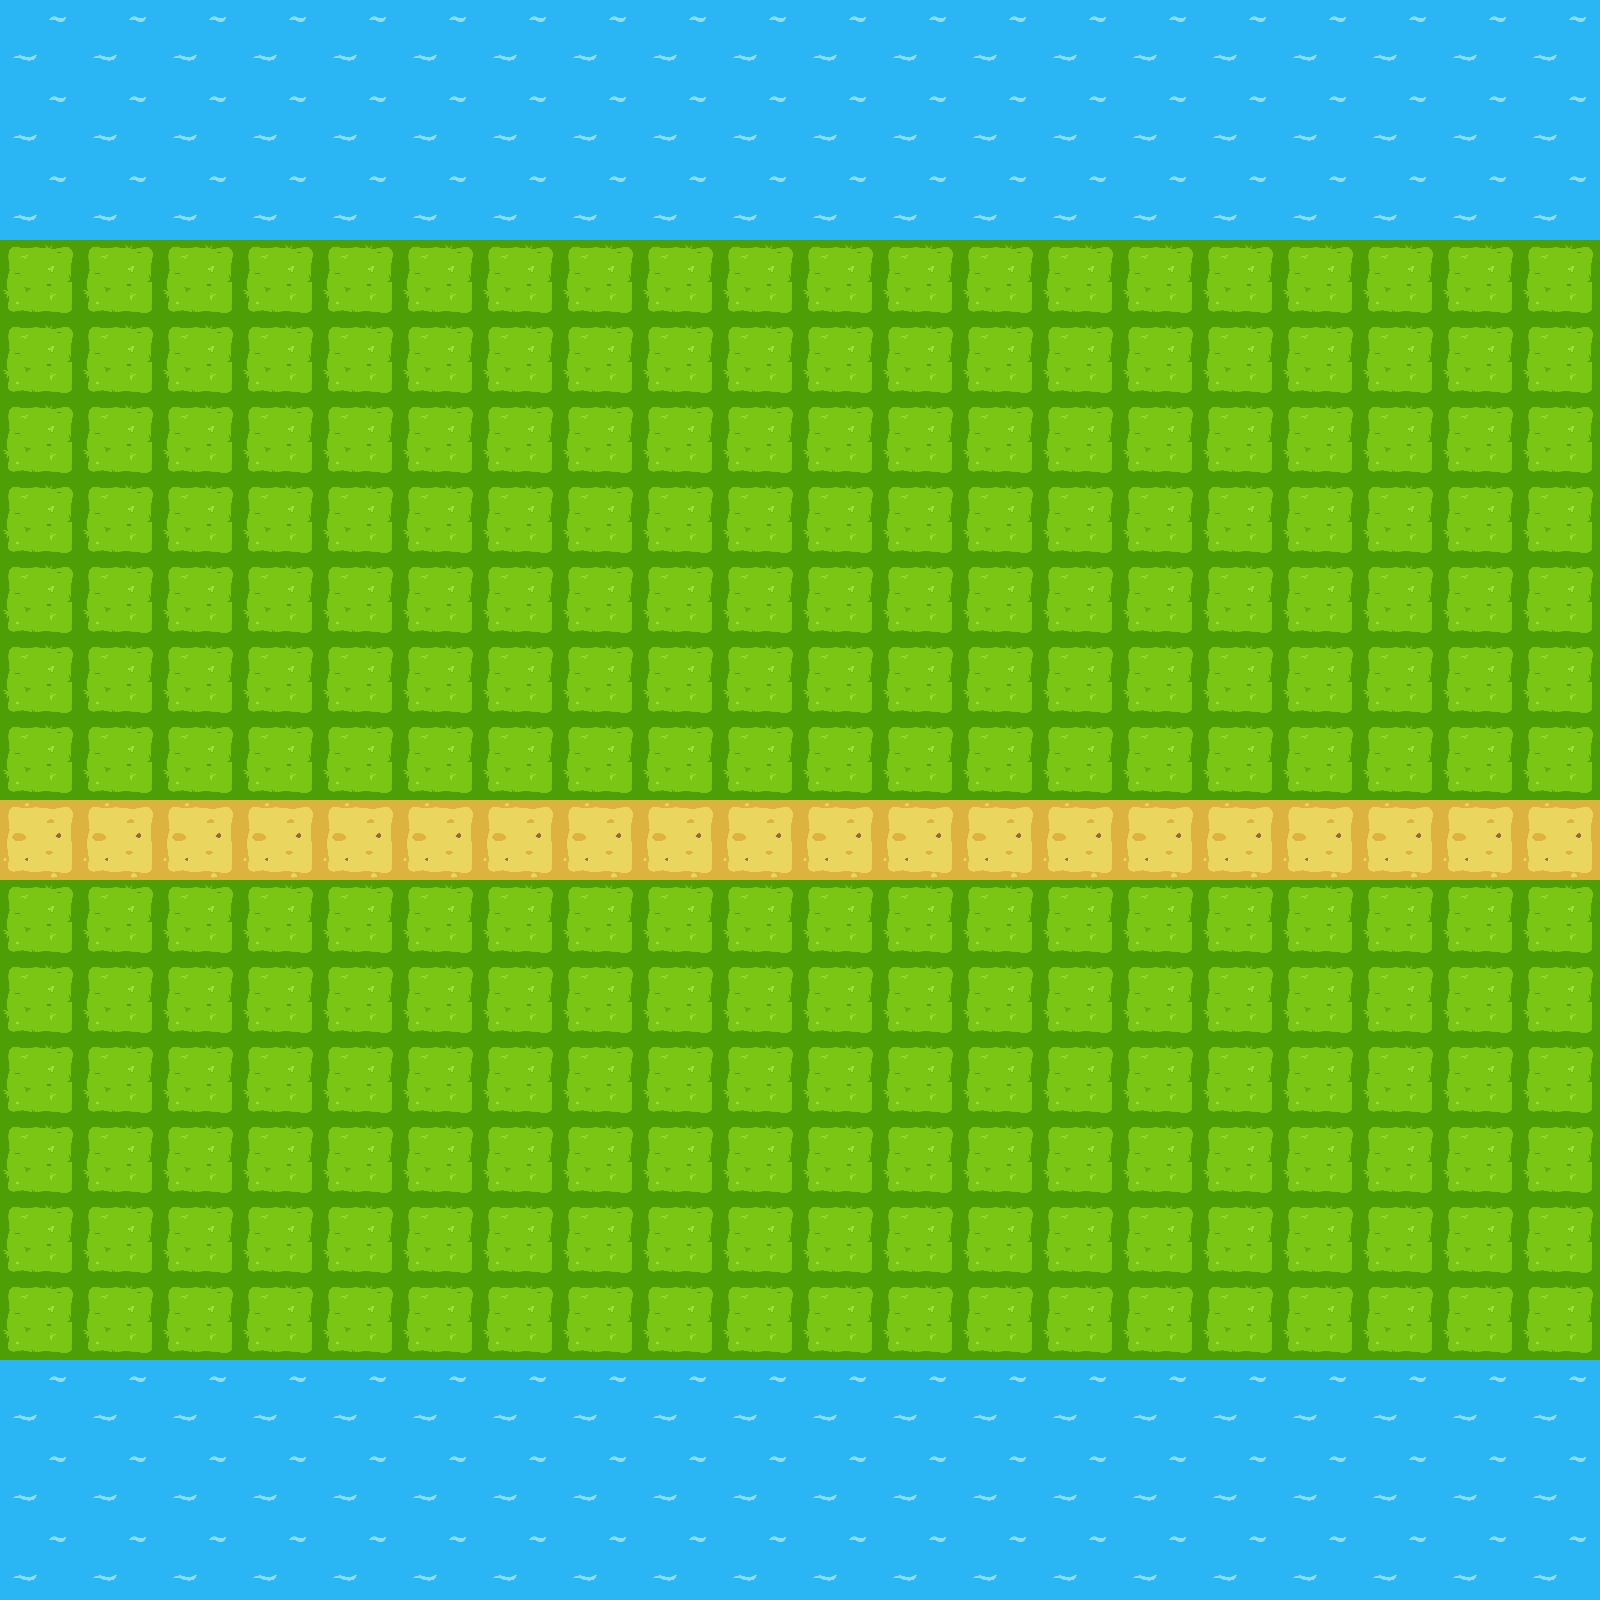
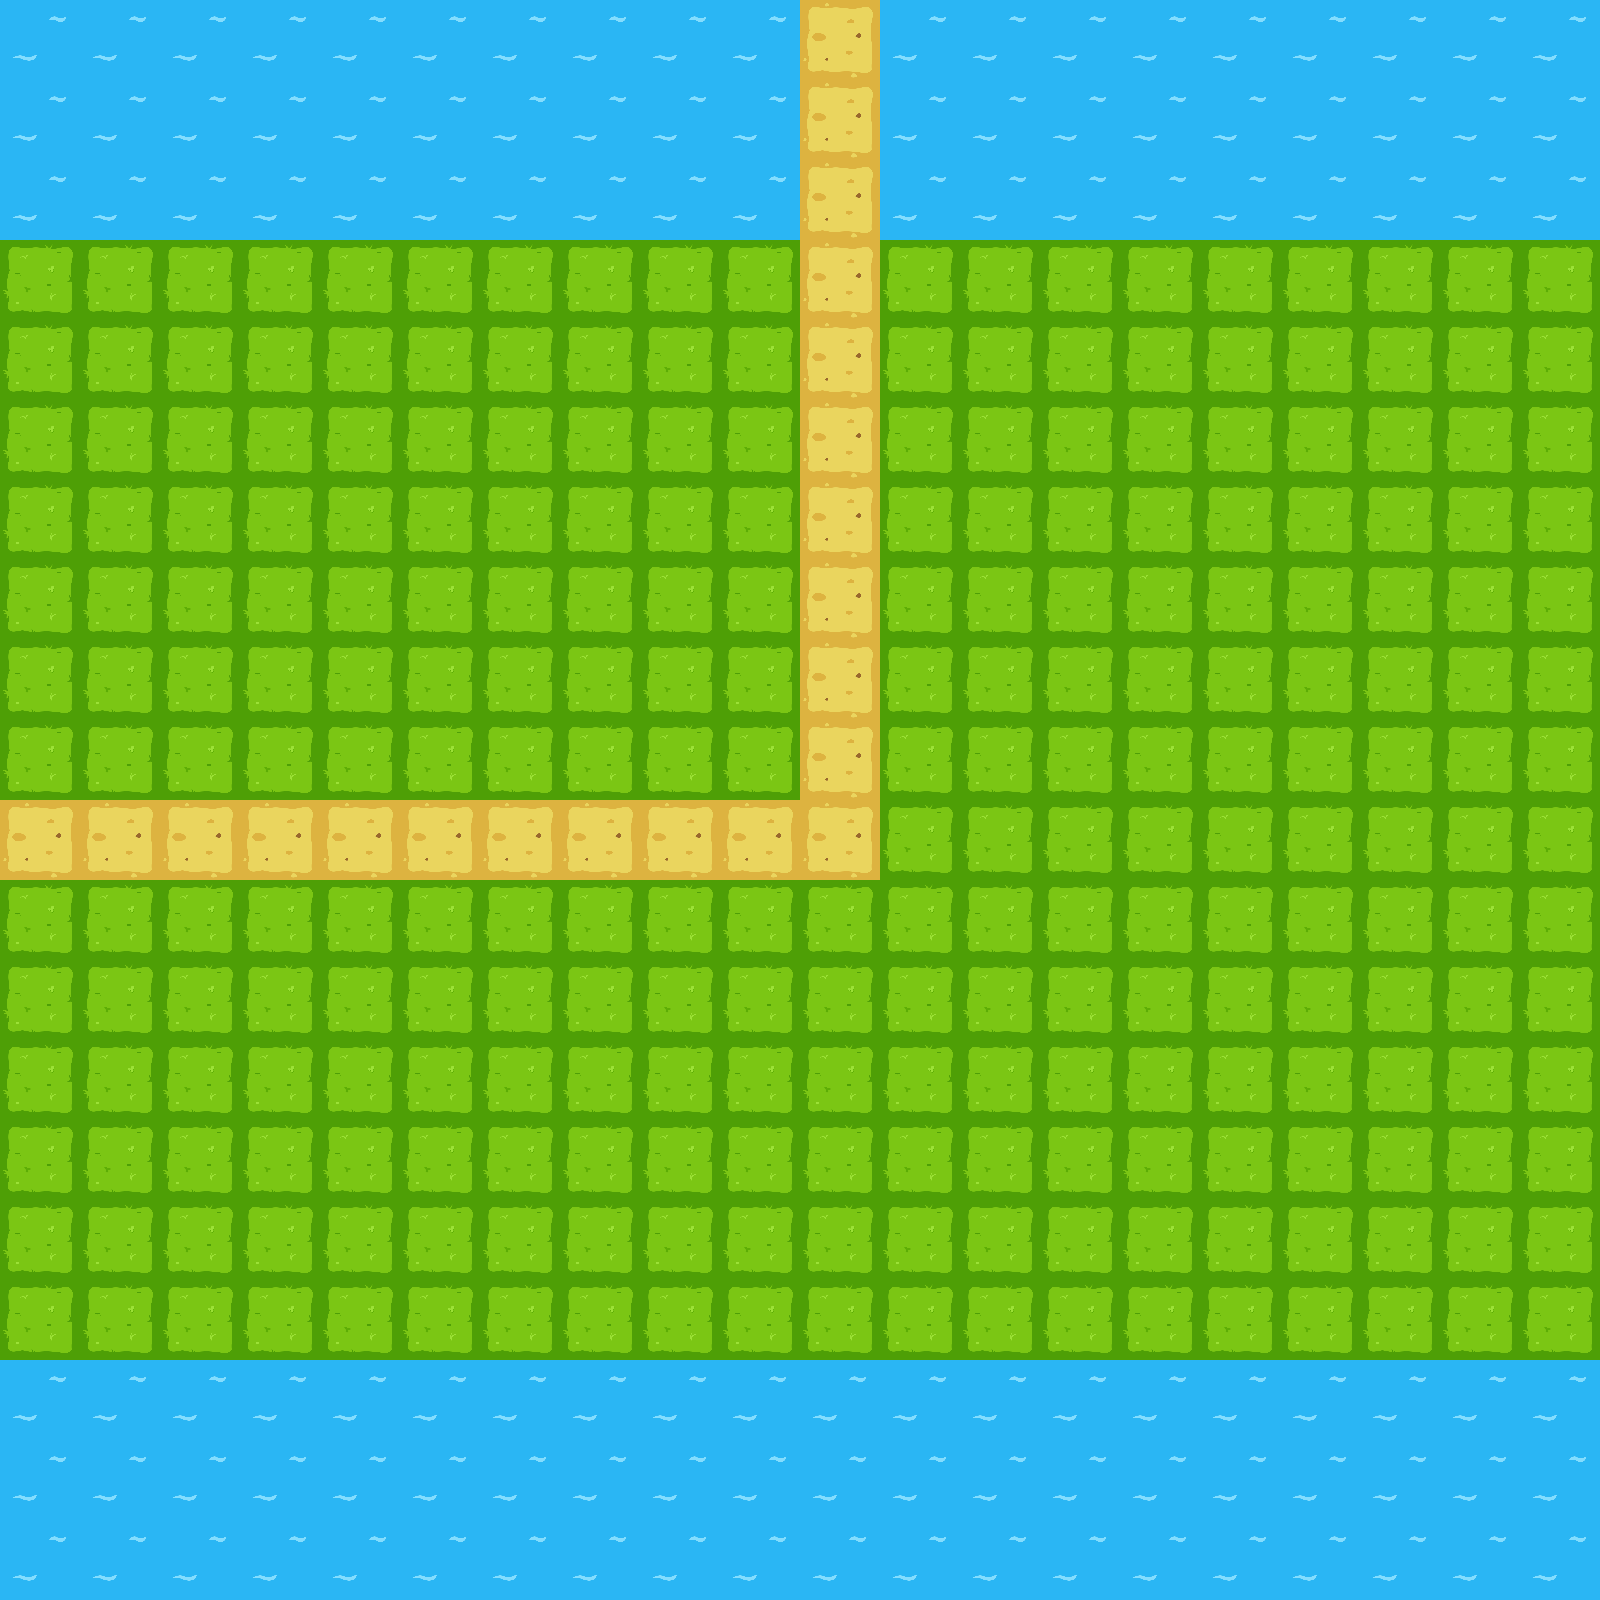
Implement algorithm for pathfinding in MapController and clear class

Changed region(s): [[0.5, 0.0, 1.0, 0.5625]]

diff --git a/src/sgf/utilities/MapLoaderImpl.java b/src/sgf/utilities/MapLoaderImpl.java
@@ -4,6 +4,10 @@ import java.io.BufferedReader;
 import java.io.File;
 import java.io.FileReader;
 import java.io.IOException;
+import java.util.ArrayList;
+import java.util.HashMap;
+import java.util.List;
+import sgf.model.Direction;
 import sgf.model.GridPosition;
 import sgf.model.Map;
 import sgf.model.MapImpl;
@@ -16,6 +20,7 @@ import sgf.model.TileType;
  */
 public class MapLoaderImpl implements MapLoader {
     private final Map map;
+    private final java.util.Map<Integer, TileType> numersToTypes;
 
     /**
      * Simple constructor.
@@ -23,13 +28,24 @@ public class MapLoaderImpl implements MapLoader {
      */
     public MapLoaderImpl(final int levelId) {
         this.map = new MapImpl();
+        numersToTypes = new HashMap<>();
+        this.createLinks();
         this.readMapStructureFromFile(levelId); // Methods that reads map structure from file and create the map.
+        this.findMovementPath();        // Method that fills the field Direction in every tile.
     }
-
 
     @Override
     public Map getMap() {
         return this.map;
+    }
+
+    // Method that links every integer number with a correspondent tile type.
+    private void createLinks() {
+        this.numersToTypes.put(0, TileType.GRASS);
+        this.numersToTypes.put(1, TileType.PATH);
+        this.numersToTypes.put(2, TileType.WATER);
+        this.numersToTypes.put(3, TileType.START_PATH);
+        this.numersToTypes.put(4, TileType.END_PATH);
     }
 
     // This method is the file effective reader.
@@ -47,7 +63,13 @@ public class MapLoaderImpl implements MapLoader {
                     final String[] splitted = lineRead.split("\\s+");
                     for (int column = 0; column < splitted.length; column++) {
                         // At the end, the method adds a new element (GridPosition and correspondent Tile) into the effective map.
-                        this.addNewElement(Integer.parseInt(splitted[column]), row, column);
+                        final int valueRead = Integer.parseInt(splitted[column]);
+                        if (valueRead == 3) {
+                            this.map.setStartTile(row, column);
+                        } else if (valueRead == 4) {
+                            this.map.setEndTile(row, column);
+                        }
+                        this.map.getTiles().put(new GridPosition(column, row), new TileImpl(this.numersToTypes.get(valueRead)));
                     }
                 }
             }
@@ -56,26 +78,48 @@ public class MapLoaderImpl implements MapLoader {
         }
     }
 
-    // This method checks the parameter in input and puts the correct tile type into the map.
-    private void addNewElement(final int tileType, final int row, final int column) {
-        switch (tileType) {
-            case 0:     // If reads a 0, the tile is a grass type tile..
-                this.map.getTiles().put(new GridPosition(column, row), new TileImpl(TileType.GRASS, null));
-                break;
-            case 2:     // If reads a 2, the tile is a water type tile.
-                this.map.getTiles().put(new GridPosition(column, row), new TileImpl(TileType.WATER, null));
-                break;
-            case 3:     // If reads a 3, the tile is the start of enemies movement.
-                this.map.getTiles().put(new GridPosition(column, row), new TileImpl(TileType.START_PATH, null));
-                this.map.setStartTile(row, column);
-                break;
-            case 4:     // If reads a 4, the tile is the end of enemies movement.
-                this.map.getTiles().put(new GridPosition(column, row), new TileImpl(TileType.END_PATH, null));
-                this.map.setEndTile(row, column);     // If there, the tile is the start of enemy's movement.
-                break;
-            default:    // If there, the case is 1 and the tile type is path.
-                this.map.getTiles().put(new GridPosition(column, row), new TileImpl(TileType.PATH, null));
-                break;
+    // Method that, by observing the path, fill the field Direction of the path tiles.
+    private void findMovementPath() {
+        GridPosition actualTile = this.map.getStartTile();
+        final List<GridPosition> alreadyChecked = new ArrayList<>();    // Contains the tiles already checked, so that we can ignore them.
+        Direction lastDirection = null; // It saves the last direction set, so we can have the direction also for the very last tile of the path.
+
+        // For every tile of the path we check its neighbors to find which one is path. Then, by a simple compare we can set up the field direction of ebery path tile.
+        while (!actualTile.equals(this.map.getEndTile())) {
+            for (final var neighbor : this.findNeighbors(actualTile).entrySet()) {
+                // For every neighbor tile that has not been already checked we check if its type is Path.
+                if (!alreadyChecked.contains(neighbor.getKey()) && this.checkIfIsPath(neighbor.getKey())) {
+                    // We found the next tile. So we have to set the direction of the current tile and update the list of already checked tiles.
+                    this.map.getTiles().get(actualTile).setDirection(neighbor.getValue());
+                    alreadyChecked.add(actualTile);
+                    actualTile = neighbor.getKey();
+                    lastDirection = neighbor.getValue();
+                    break;
+                }
+            }
+        }
+        this.map.getTiles().get(this.map.getEndTile()).setDirection(lastDirection);     // Also the very last tile direction is set.
+    }
+
+    // Method that calculate the neighbors of a given grid position and fill a map with the corresponding direction.
+    private java.util.Map<GridPosition, Direction> findNeighbors(final GridPosition actualTile) {
+        final java.util.Map<GridPosition, Direction> result = new HashMap<>();
+        result.put(new GridPosition(actualTile.getColumn(), actualTile.getRow() - 1), Direction.UP);
+        result.put(new GridPosition(actualTile.getColumn() + 1, actualTile.getRow()), Direction.RIGHT);
+        result.put(new GridPosition(actualTile.getColumn(), actualTile.getRow() + 1), Direction.DOWN);
+        result.put(new GridPosition(actualTile.getColumn() - 1, actualTile.getRow()), Direction.LEFT);
+        return result;
+    }
+
+    // Method that check if a given grid position is acceptable (in matrix size limits) and if it corresponds to a path tile.
+    private boolean checkIfIsPath(final GridPosition neighbour) {
+        if (neighbour.getRow() < 0 || neighbour.getColumn() < 0 || neighbour.getRow() >= this.map.getMapSize() 
+                || neighbour.getColumn() >= this.map.getMapSize()) {    // If given grid position not into the map's size limits.
+            return false;
+        } else {
+            // We check if its type is path.
+            return this.map.getTiles().get(neighbour).getTileType() != TileType.WATER
+                    && this.map.getTiles().get(neighbour).getTileType() != TileType.GRASS;
         }
     }
 }

diff --git a/src/sgf/model/TileImpl.java b/src/sgf/model/TileImpl.java
@@ -7,16 +7,15 @@ import java.util.Optional;
  */
 public class TileImpl implements Tile {
     private final TileType tileType;    // Type of the tile (grass, water, path...).
-    private final Optional<Direction> tileDirection;
+    private Optional<Direction> tileDirection;
 
     /**
      * Constructor for the creation of a {@link Tile}.
      * @param tileType Is the type that describes the tile.
-     * @param tileDirection Describes in which {@link Direction} must proceed the {@link Enemy}'s movement.
      */
-    public TileImpl(final TileType tileType, final Optional<Direction> tileDirection) {
+    public TileImpl(final TileType tileType) {
         this.tileType = tileType;
-        this.tileDirection = tileDirection;
+        this.tileDirection = Optional.empty();
     }
 
     @Override
@@ -32,5 +31,10 @@ public class TileImpl implements Tile {
     @Override
     public boolean canContainTurret() {
         return this.tileType == TileType.GRASS;
+    }
+
+    @Override
+    public void setDirection(final Direction direction) {
+        this.tileDirection = Optional.of(direction);
     }
 }

diff --git a/src/sgf/model/Tile.java b/src/sgf/model/Tile.java
@@ -23,4 +23,10 @@ public interface Tile {
      * @return {@code true} if the tile can contain a {@link Turret}, {@code false} otherwise.
      */
     boolean canContainTurret();
+
+    /**
+     * Method that sets up the tile's direction. It will be useful to enemy's movement pathfinding.
+     * @param direction Is the direction that the interested tile must have.
+     */
+    void setDirection(Direction direction);
 }
